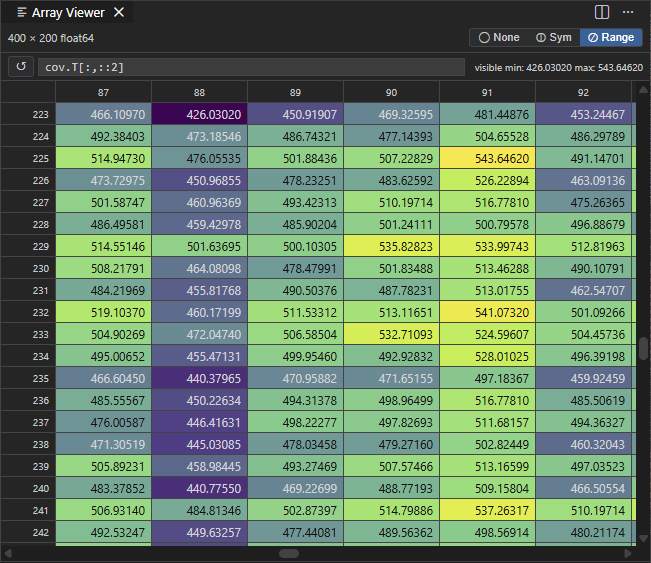
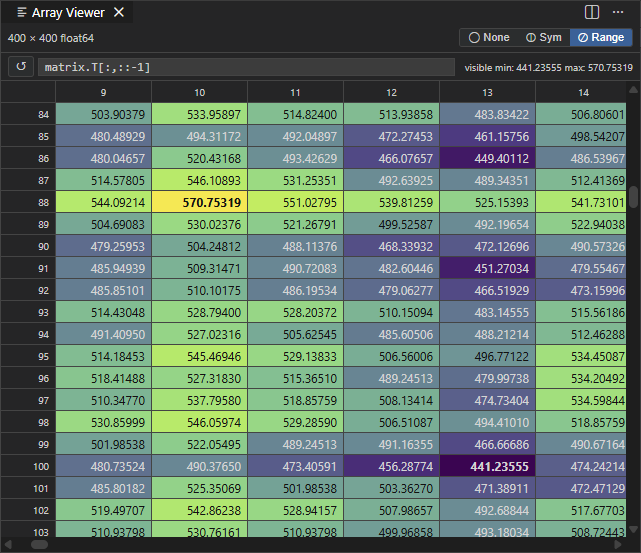
min and max values in array viewer in bold font

diff --git a/resources/array_viewer.html b/resources/array_viewer.html
@@ -596,6 +596,7 @@
       const bg = valueToColor(v);
       cell.style.background = bg || '';
       cell.style.color = bg && needsDarkText(bg) ? '#111' : '';
+      cell.style.fontWeight = isVisibleExtremeValue(v) ? '700' : '';
     });
   }
 
@@ -617,12 +618,30 @@
     }
   }
 
-  function computeVisibleColorRange() {
-    if (!meta) return { min: null, max: null };
+  function getStrictViewportBounds() {
+    const host = document.getElementById('scroll-host');
     const r0 = Math.max(0, viewR0);
     const c0 = is1D ? 0 : Math.max(0, viewC0);
-    const r1 = Math.min(nRows(), r0 + visRows);
-    const c1 = is1D ? 1 : Math.min(nCols(), c0 + visCols);
+    const visibleRows = Math.max(1, Math.ceil(host.clientHeight / ROW_H));
+    const visibleCols = is1D
+      ? 1
+      : Math.max(1, Math.ceil(Math.max(1, host.clientWidth - IDX_COL_W) / COL_W));
+    const r1 = Math.min(nRows(), r0 + visibleRows);
+    const c1 = is1D ? 1 : Math.min(nCols(), c0 + visibleCols);
+    return { r0, r1, c0, c1 };
+  }
+
+  function isVisibleExtremeValue(v) {
+    return typeof v === 'number'
+      && isFinite(v)
+      && colorMin !== null
+      && colorMax !== null
+      && (v === colorMin || v === colorMax);
+  }
+
+  function computeVisibleColorRange() {
+    if (!meta) return { min: null, max: null };
+    const { r0, r1, c0, c1 } = getStrictViewportBounds();
     let min = Infinity;
     let max = -Infinity;
 
@@ -734,12 +753,16 @@
     cell.classList.remove('loading');
     if (typeof val === 'string') {
       cell.textContent = val; cell.dataset.v = '';
+      cell.style.background = '';
+      cell.style.color = '';
+      cell.style.fontWeight = '';
     } else {
       const s = formatNumber(val);
       cell.textContent = s; cell.dataset.v = val;
       const bg = valueToColor(val);
       cell.style.background = bg || '';
       cell.style.color = bg && needsDarkText(bg) ? '#111' : '';
+      cell.style.fontWeight = isVisibleExtremeValue(val) ? '700' : '';
     }
   }
 

diff --git a/CHANGELOG.md b/CHANGELOG.md
@@ -11,6 +11,7 @@ All notable changes to the **Pylot** extension will be documented in this file.
 ### Improvements
 - **Array viewer keyboard navigation**: The scroll viewport can now receive focus and supports `Arrow` keys plus `Page Up` and `Page Down` for navigation.
 - **Visible range statistics**: The min/max readout now reflects the currently visible viewport instead of the larger buffered area, with smoother updates during scrolling, chunk loading, and inline edits.
+- **Visible extrema emphasis**: All cells whose value equals the current visible minimum or maximum are now displayed in bold.
 
 ## [1.9.0] - 2026-04-08
 
